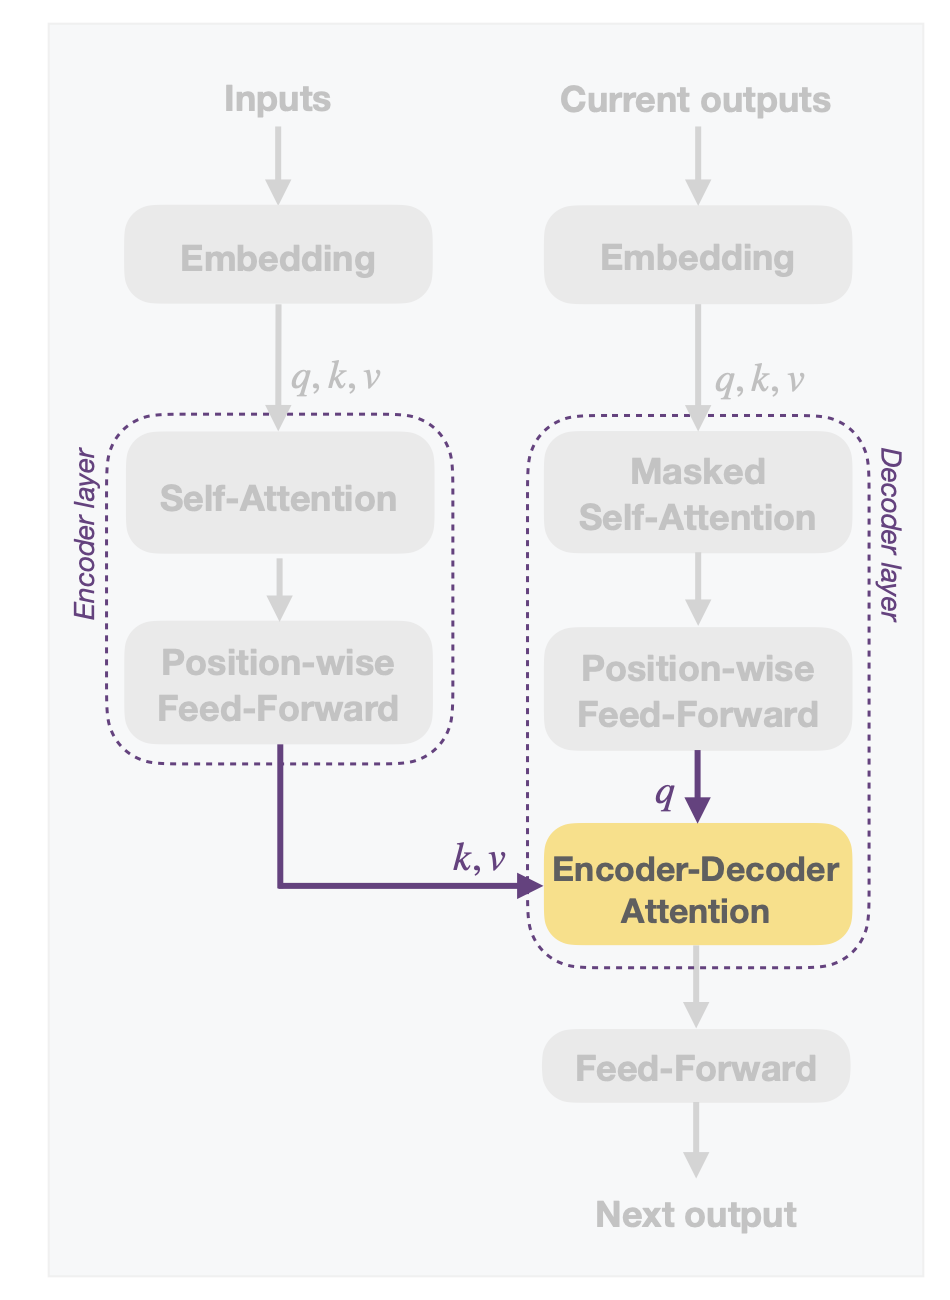
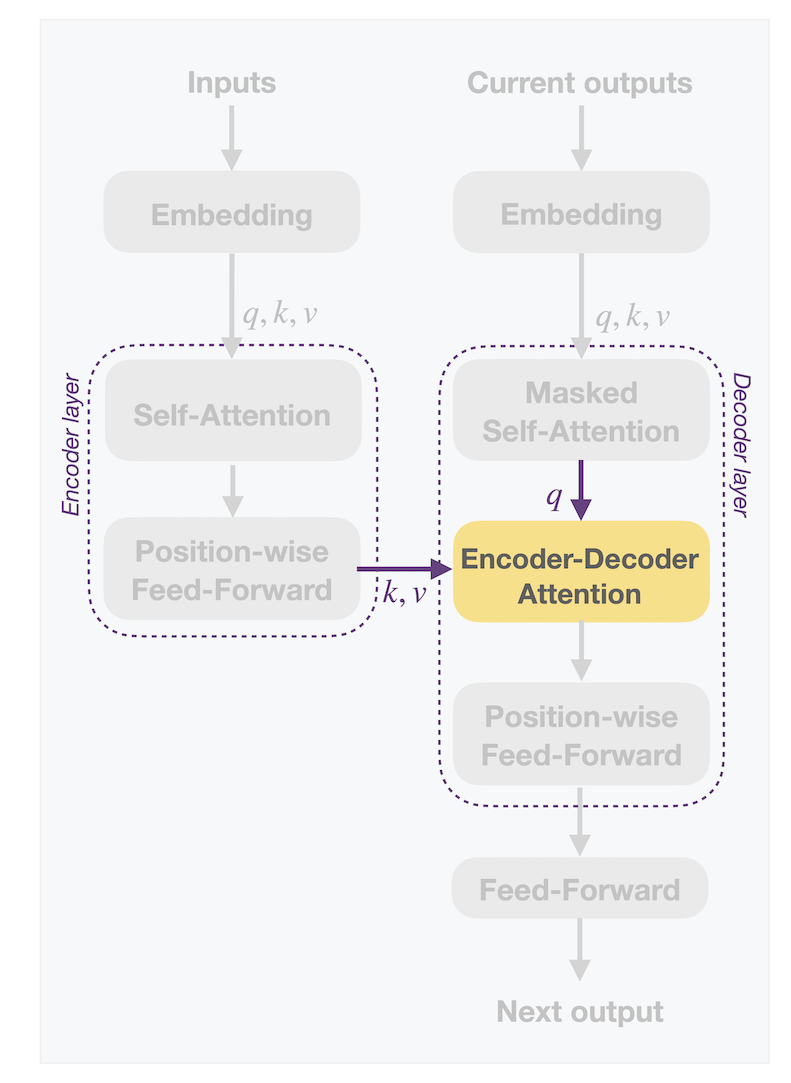
updated transformers

Changed region(s): [[0.2731, 0.4266, 0.9102, 0.7313], [0.0607, 0.3352, 0.1214, 0.4875], [0.9102, 0.3352, 0.9406, 0.4875]]

diff --git a/ls2/slides/attention.md b/ls2/slides/attention.md
@@ -864,6 +864,29 @@ Using **teacher forcing**, the decoder can be **parallelized during learning** l
 --
 
 
+<div class="container">
+<div class="col1">
+
+### Position-wise Feed-Forward layers
+
+Each output vector from the attention blocks is fed through the same large feed-forward block.
+
+These are often overlooked, but they are where most of the parameters go in the large models. 
+
+They store most of the domain knowledge, retrieved by the attention layers.
+
+
+
+<div class="col1">
+    <img style="height:600px;" data-src="./images/att_querykeyvalue_posff.png">
+</div>
+</div>
+
+
+
+
+--
+
 
 ### Some additional details
 
